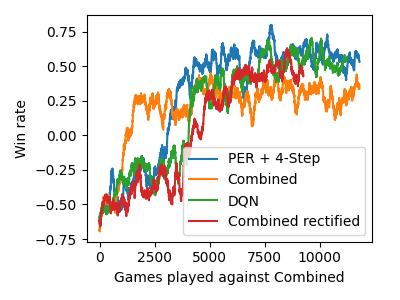
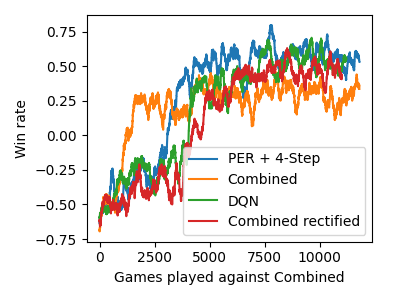
combined recitified

Changed region(s): [[0.75, 0.15, 0.87, 0.33]]

diff --git a/src/hockey-env/plots_for_report.py b/src/hockey-env/plots_for_report.py
@@ -106,7 +106,7 @@ plot_rewards([(bigger_lr, "bigger_lr"),(bigger_nn, "bigger_nn"), (Combined_n_4, 
 
 plot_winrate([(tournament_agent_path, "4 Steps"),(n_step_6_path, "6 Steps"), (classic_dqn, "DQN"),(n_step_1_path, "1 Step") ], opponent_name=  "Weak", games = 10000, opponent_idx = 1, name = "win_rate_n_steps")
 plot_winrate([(tournament_agent_path, "Alpha:0.2 Beta:0.6"),(prio_alpha_04,  "Alpha:0.4 Beta:0.6"), (classic_dqn, "DQN"),(prio_alpha_02_beta_04,  "Alpha:0.2 Beta:0.4") ], games = 10000, opponent_name=  "Weak", opponent_idx = 1, name = "win_rate_alpha_beta")
-plot_winrate([(tournament_agent_path, "PER + 4-Step"),(Combined_n_4, "Combined"), (classic_dqn, "DQN"),(bigger_nn, "Combined rectified")], opponent_name=  "Weak", opponent_idx = 1, name = "win_rate_vs_weak", games = 12000)
+plot_winrate([(tournament_agent_path, "PER + 4-Step"),(Combined_n_4, "Combined"), (classic_dqn, "DQN"),(bigger_nn, "Combined rectified")], opponent_name=  "Weak", opponent_idx = 1, name = "win_rate_vs_weak", games = 10000)
 plot_winrate([(Combined_n_4,"50 games"),(Combined_n_4_ten_games, "10 games")], opponent_name=  "Weak", opponent_idx = 1, name = "win_rate_combined_vs_ten_games", games=8000)
 plot_winrate([(bigger_lr, "bigger_lr"),(bigger_nn, "bigger_nn"), (Combined_n_4, "Combined_n_4")], opponent_name=  "Weak", opponent_idx = 1, name = "win_rate_bigger_lr_nn")
 
